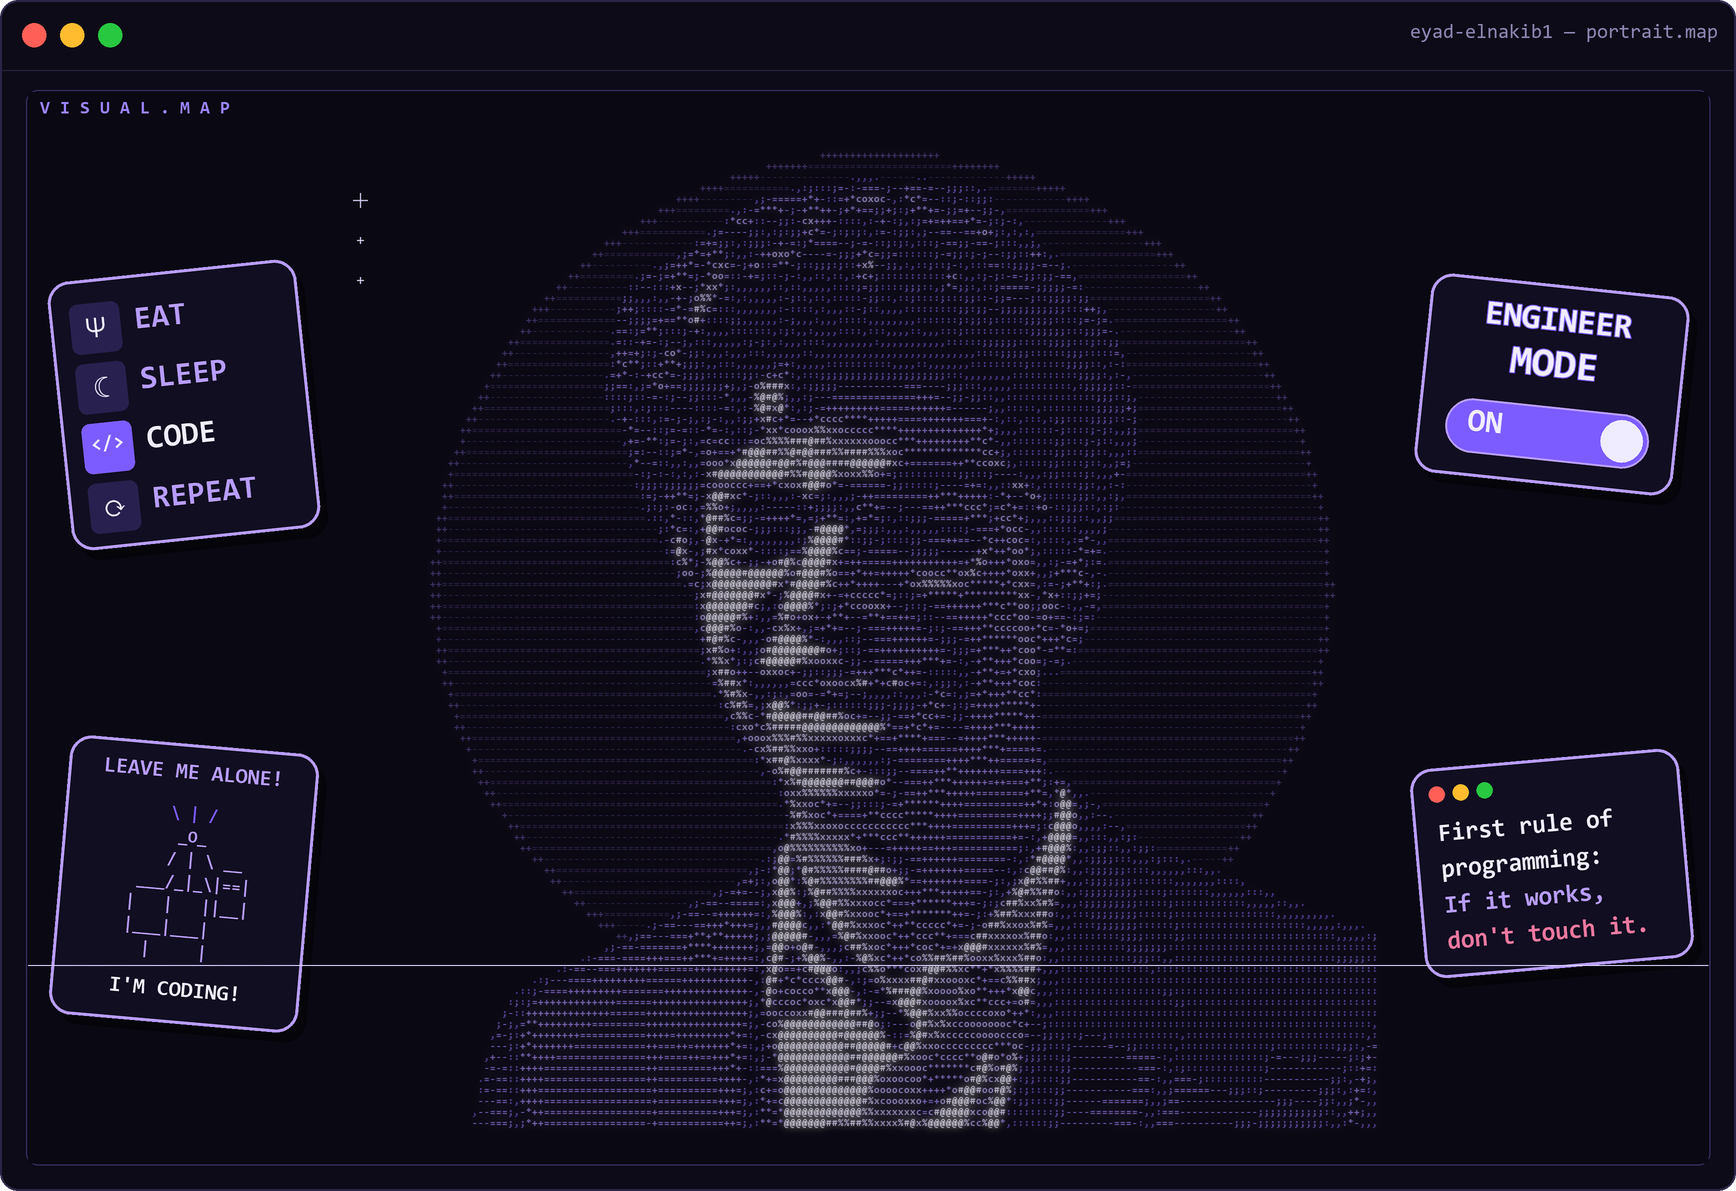
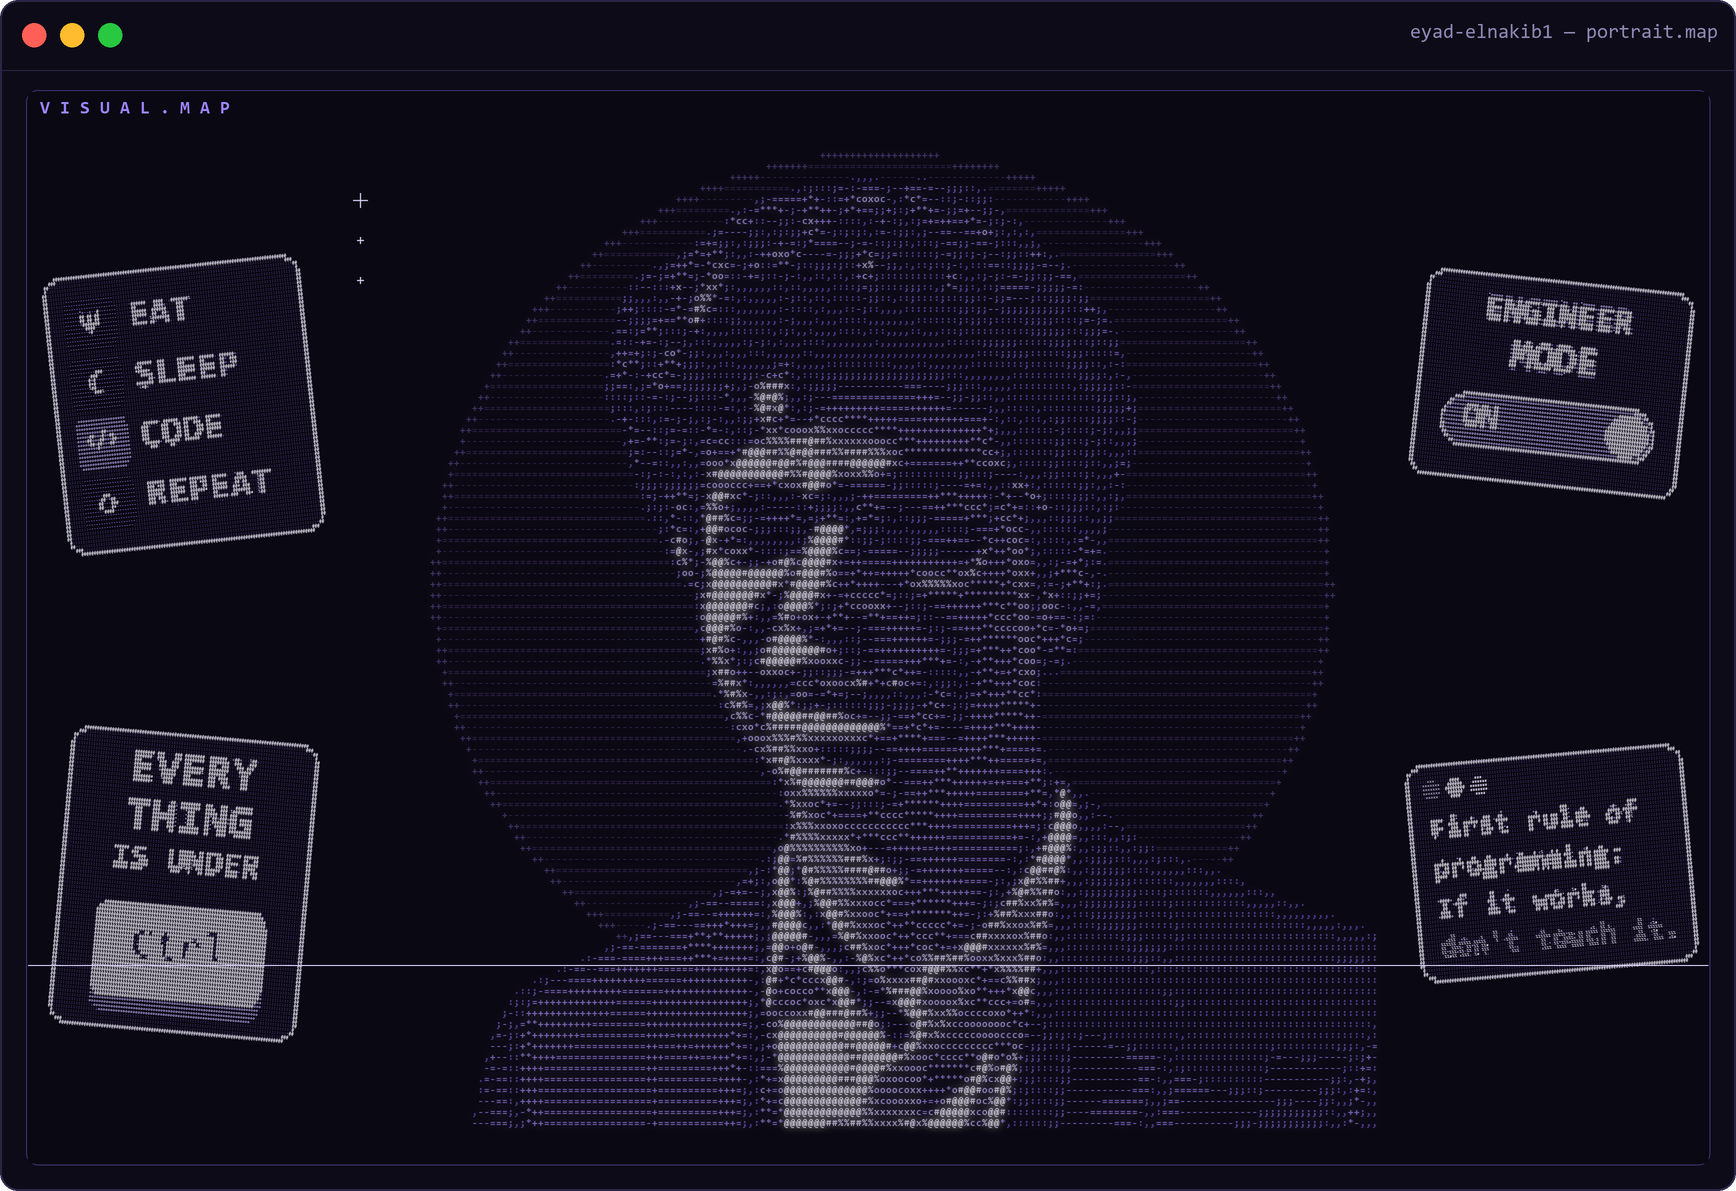
Profile: "Everything is under Ctrl" sticker, all stickers in the portrait's character style

diff --git a/scripts/make_visuals.py b/scripts/make_visuals.py
@@ -140,7 +140,7 @@ def _font(name, size):
 
 def _sticker(kind, S):
     """One sticker in the portrait's style: dark panel, faint dot texture, lavender outline, monospace text."""
-    W, H = {"eat": (250, 270), "mode": (260, 200), "alone": (250, 280), "rule": (270, 210)}[kind]
+    W, H = {"eat": (260, 280), "mode": (270, 210), "ctrl": (250, 300), "rule": (280, 220)}[kind]
     W, H = W * S, H * S
     img = Image.new("RGBA", (W, H), (0, 0, 0, 0))
     d = ImageDraw.Draw(img)
@@ -158,7 +158,7 @@ def _sticker(kind, S):
             f = bold(20) if icon == "</>" else sym(28)
             tw = d.textlength(icon, font=f)
             d.text((45 * S - tw / 2, y + (12 if icon == "</>" else 4) * S), icon, font=f, fill=WHITE)
-            d.text((84 * S, y + 6 * S), word, font=bold(32), fill=WHITE if k == 2 else LAV)
+            d.text((84 * S, y + 4 * S), word, font=bold(38), fill=WHITE if k == 2 else LAV)
     elif kind == "mode":
         for k, word in enumerate(("ENGINEER", "MODE")):
             f = bold(40 if k else 34)
@@ -169,24 +169,53 @@ def _sticker(kind, S):
         d.text((x0 + 22 * S, y0 + 8 * S), "ON", font=bold(32), fill=WHITE)
         r = 21 * S
         d.ellipse([x1 - 6 * S - 2 * r, y0 + 6 * S, x1 - 6 * S, y0 + 6 * S + 2 * r], fill=WHITE)
-    elif kind == "alone":
-        for k, word in enumerate(("LEAVE ME ALONE!", "I'M CODING!")):
-            f = bold(22)
+    elif kind == "ctrl":
+        for k, word in enumerate(("EVERY", "THING", "IS UNDER")):
+            f = bold(46 if k < 2 else 34)
             tw = d.textlength(word, font=f)
-            d.text(((W - tw) / 2, (18 if k == 0 else 236) * S), word, font=f, fill=WHITE if k else LAV)
-        art = ["     \\ | /    ", "      _O_     ", "     / | \\ __ ", "  ___/_|_\\|==|", " |   |   ||__|", " |___|___|    ", "   |     |    "]
-        f = bold(17)
-        for k, line in enumerate(art):
-            tw = d.textlength(line, font=f)
-            d.text(((W - tw) / 2, (62 + k * 23) * S), line, font=f, fill=LAV if k else ACC)
+            d.text(((W - tw) / 2, (16 + k * 48) * S), word, font=f, fill=WHITE)
+        x0, y0, x1, y1 = 40 * S, 172 * S, W - 40 * S, 282 * S             # the Ctrl keycap
+        d.rounded_rectangle([x0, y0 + 10 * S, x1, y1], radius=16 * S, fill=(120, 100, 200, 255))
+        d.rounded_rectangle([x0, y0, x1, y1 - 14 * S], radius=16 * S, fill=(214, 204, 255, 255))
+        f = bold(44)
+        tw = d.textlength("Ctrl", font=f)
+        d.text(((W - tw) / 2, y0 + 22 * S), "Ctrl", font=f, fill=(24, 18, 46))
     elif kind == "rule":
         for k, col in enumerate(((255, 95, 87), (254, 188, 46), (40, 200, 64))):
             cx, cy = (26 + k * 24) * S, 26 * S
             d.ellipse([cx - 8 * S, cy - 8 * S, cx + 8 * S, cy + 8 * S], fill=col)
         lines = [("First rule of", WHITE), ("programming:", WHITE), ("If it works,", LAV), ("don't touch it.", (236, 120, 160))]
         for k, (t, col) in enumerate(lines):
-            d.text((24 * S, (54 + k * 36) * S), t, font=bold(25), fill=col)
+            d.text((22 * S, (52 + k * 40) * S), t, font=bold(29), fill=col)
     return img
+
+
+RAMP = " .,:;-=+*cox%#@"
+
+
+def _dotify(img, S, font_px=4):
+    """Redraw an RGBA picture as monospace characters: density and purple shade follow brightness (as the portrait)."""
+    import numpy as np
+    arr = np.asarray(img).astype(np.float32) / 255.0
+    alpha = arr[..., 3]
+    lum = (0.2126 * arr[..., 0] + 0.7152 * arr[..., 1] + 0.0722 * arr[..., 2]) * alpha
+    font = _font("consolab.ttf", font_px * S)
+    cw = font.getbbox("@")[2]
+    ch = int(font_px * S * 1.12)
+    out = Image.new("RGBA", img.size, (0, 0, 0, 0))
+    d = ImageDraw.Draw(out)
+    deep, mid, light = np.array([96, 62, 196]), np.array([176, 150, 255]), np.array([246, 242, 255])
+    for y in range(0, img.height - ch + 1, ch):
+        for x in range(0, img.width - cw + 1, cw):
+            a = alpha[y:y + ch, x:x + cw].mean()
+            if a < 0.5:
+                continue
+            v = float(np.percentile(lum[y:y + ch, x:x + cw], 85) / max(a, 1e-3))   # keep thin strokes bright
+            v = 0.16 + 0.84 * min(1.0, v * 1.45)               # dark panel keeps a dotted texture; text brightened
+            k = min(len(RAMP) - 1, int(v * (len(RAMP) - 1) + 0.5))
+            col = deep + (mid - deep) * min(1, v / 0.55) if v < 0.55 else mid + (light - mid) * ((v - 0.55) / 0.45)
+            d.text((x, y), RAMP[k], font=font, fill=tuple(int(c) for c in col) + (255,))
+    return out
 
 
 def window(portrait_path, out_path):
@@ -220,10 +249,10 @@ def window(portrait_path, out_path):
     inner_h = ph * S
     left_c = x0 + (side // 2 + 8) * S
     right_c = px + pw * S + (side // 2 + 4) * S
-    for kind, cx, fy, angle in (("eat", left_c, 0.27, 6), ("alone", left_c, 0.74, -5), ("mode", right_c, 0.25, -6), ("rule", right_c, 0.72, 5)):
-        st = _sticker(kind, S).rotate(angle, resample=Image.BICUBIC, expand=True)
+    for kind, cx, fy, angle in (("eat", left_c, 0.27, 6), ("ctrl", left_c, 0.74, -5), ("mode", right_c, 0.25, -6), ("rule", right_c, 0.72, 5)):
+        st = _dotify(_sticker(kind, S), S).rotate(angle, resample=Image.BICUBIC, expand=True)
         shadow = Image.new("RGBA", st.size, (0, 0, 0, 0))
-        shadow.putalpha(st.getchannel("A").point(lambda v: int(v * 0.45)))
+        shadow.putalpha(st.getchannel("A").point(lambda v: int(v * 0.0)))
         cy = inner_top + int(inner_h * fy)
         img.alpha_composite(shadow, (cx - st.width // 2 + 8 * S, cy - st.height // 2 + 10 * S))
         img.alpha_composite(st, (cx - st.width // 2, cy - st.height // 2))

diff --git a/README.md b/README.md
@@ -1,5 +1,5 @@
 <p align="center">
-  <img src="assets/portrait-window.png" alt="Eyad Elnakib, drawn in characters, in a terminal window, with stickers: eat sleep code repeat, engineer mode on, leave me alone I am coding, first rule of programming" width="100%">
+  <img src="assets/portrait-window.png" alt="Eyad Elnakib, drawn in characters, in a terminal window, with stickers: eat sleep code repeat, engineer mode on, everything is under Ctrl, first rule of programming" width="100%">
 </p>
 <p align="center"><sub>Portrait drawn from my photo with <b>my own clothes-segmentation model</b> (<a href="https://github.com/Eyad-Elnakib1/Atelier">Atelier</a>) cutting out the background.</sub></p>
 
